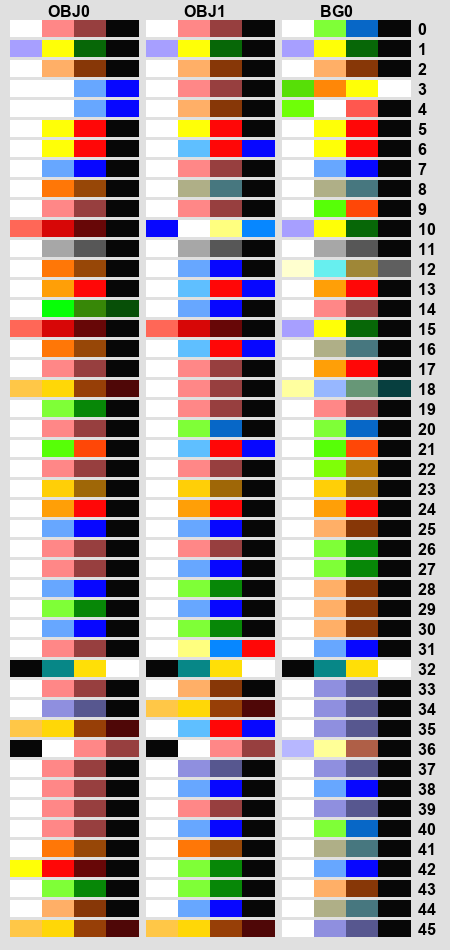
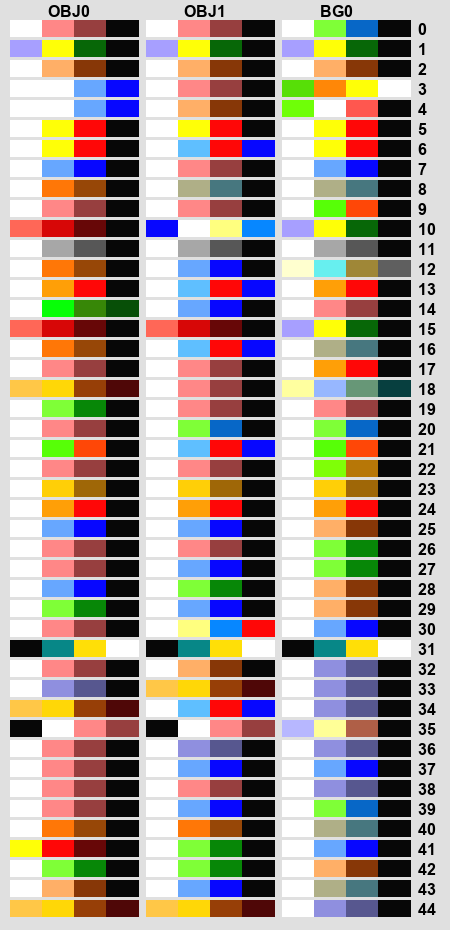
Update unique palette count
Updated files to 45 unique palettes

diff --git a/dmg-pal-patcher.py b/dmg-pal-patcher.py
@@ -1,6 +1,6 @@
 import sys,os
 
-print("Gameboy (DMG) rom palette patcher v1.0 by Mr.Blinky Aug 2024\n")
+print("Gameboy (DMG) rom palette patcher v1.1 by Mr.Blinky Aug 2024\n")
 
 IDX_PNUM = 0
 IDX_PDAT = 1
@@ -8,7 +8,7 @@ IDX_CHAR = 2
 IDX_CSUM = 3
 
 palette_lut = [
-  # 46 unique palettes (original palette index, palette data, 4th char, checksum)
+  # 45 unique palettes (original palette index, palette data, 4th char, checksum)
   (0,  0x7C, '',  0x00), 
   (1,  0x08, '',  0x88), # original palette index: as used by GBC bootrom
   (2,  0x12, '',  0x16), 
@@ -39,7 +39,6 @@ palette_lut = [
   (34, 0xAE, '',  0x17),
   (35, 0xAF, '',  0x10),
   (37, 0xB2, '',  0xF7),
-  (38, 0xAF, '',  0xF6),
   (41, 0xAB, '',  0x4E),
   (50, 0x13, '',  0xE8),
   (56, 0xAD, '',  0x9D),
@@ -97,6 +96,7 @@ palette_lut = [
   #(45, 0xAE, '',  0x8B),
   #(85, 0xAE, 'N', 0x27),
   #(86, 0xAE, 'A', 0x61),
+  #(38, 0xAF, '',  0xF6),
   #(43, 0xAF, '',  0x68),
   #(49, 0xAF, '',  0x29),
   #(54, 0xAF, '',  0x52),
@@ -115,8 +115,8 @@ if len (sys.argv) == 2:
 else:
   palette = int(sys.argv[2])
   
-if palette <0 or palette > 45:
-  print("Palette out of range. Value must be in the range 0 to 45.")
+if palette <0 or palette > 44:
+  print("Palette out of range. Value must be in the range 0 to 44.")
   sys.exit()
 
 romfile = open(sys.argv[1],'rb')

diff --git a/make-palette-image.py b/make-palette-image.py
@@ -1,5 +1,5 @@
 
-# Make DMG palette image v1.0 Mr.Blinky Aug 2024
+# Make DMG palette image v1.1 Mr.Blinky Aug 2024
 
 import os
 import sys
@@ -36,7 +36,6 @@ palette_data = [
   0xAE,
   0xAF,
   0xB2,
-  0xAF,
   0xAB,
   0x13,
   0xAD,
@@ -119,14 +118,14 @@ palette_colors = [
   0xFF,0x7F,0xEF,0x1B,0x80,0x61,0x00,0x00,
 ]
  
-img = Image.new("RGB", (450, 950),(224,224,224)) 
+img = Image.new("RGB", (450, 930),(224,224,224)) 
 canvas = ImageDraw.Draw(img)   
 font = ImageFont.truetype('arialbd.ttf', 16)  
 for i in range(3):
   canvas.text((48+i*136, 2),["OBJ0","OBJ1","BG0"][i], font = font, align ="left", fill ="black")
   
 y= 20
-for i in range(46):
+for i in range(45):
   x= 10
   for t in range(3):
     n = palette_data[i] & 0x1F
